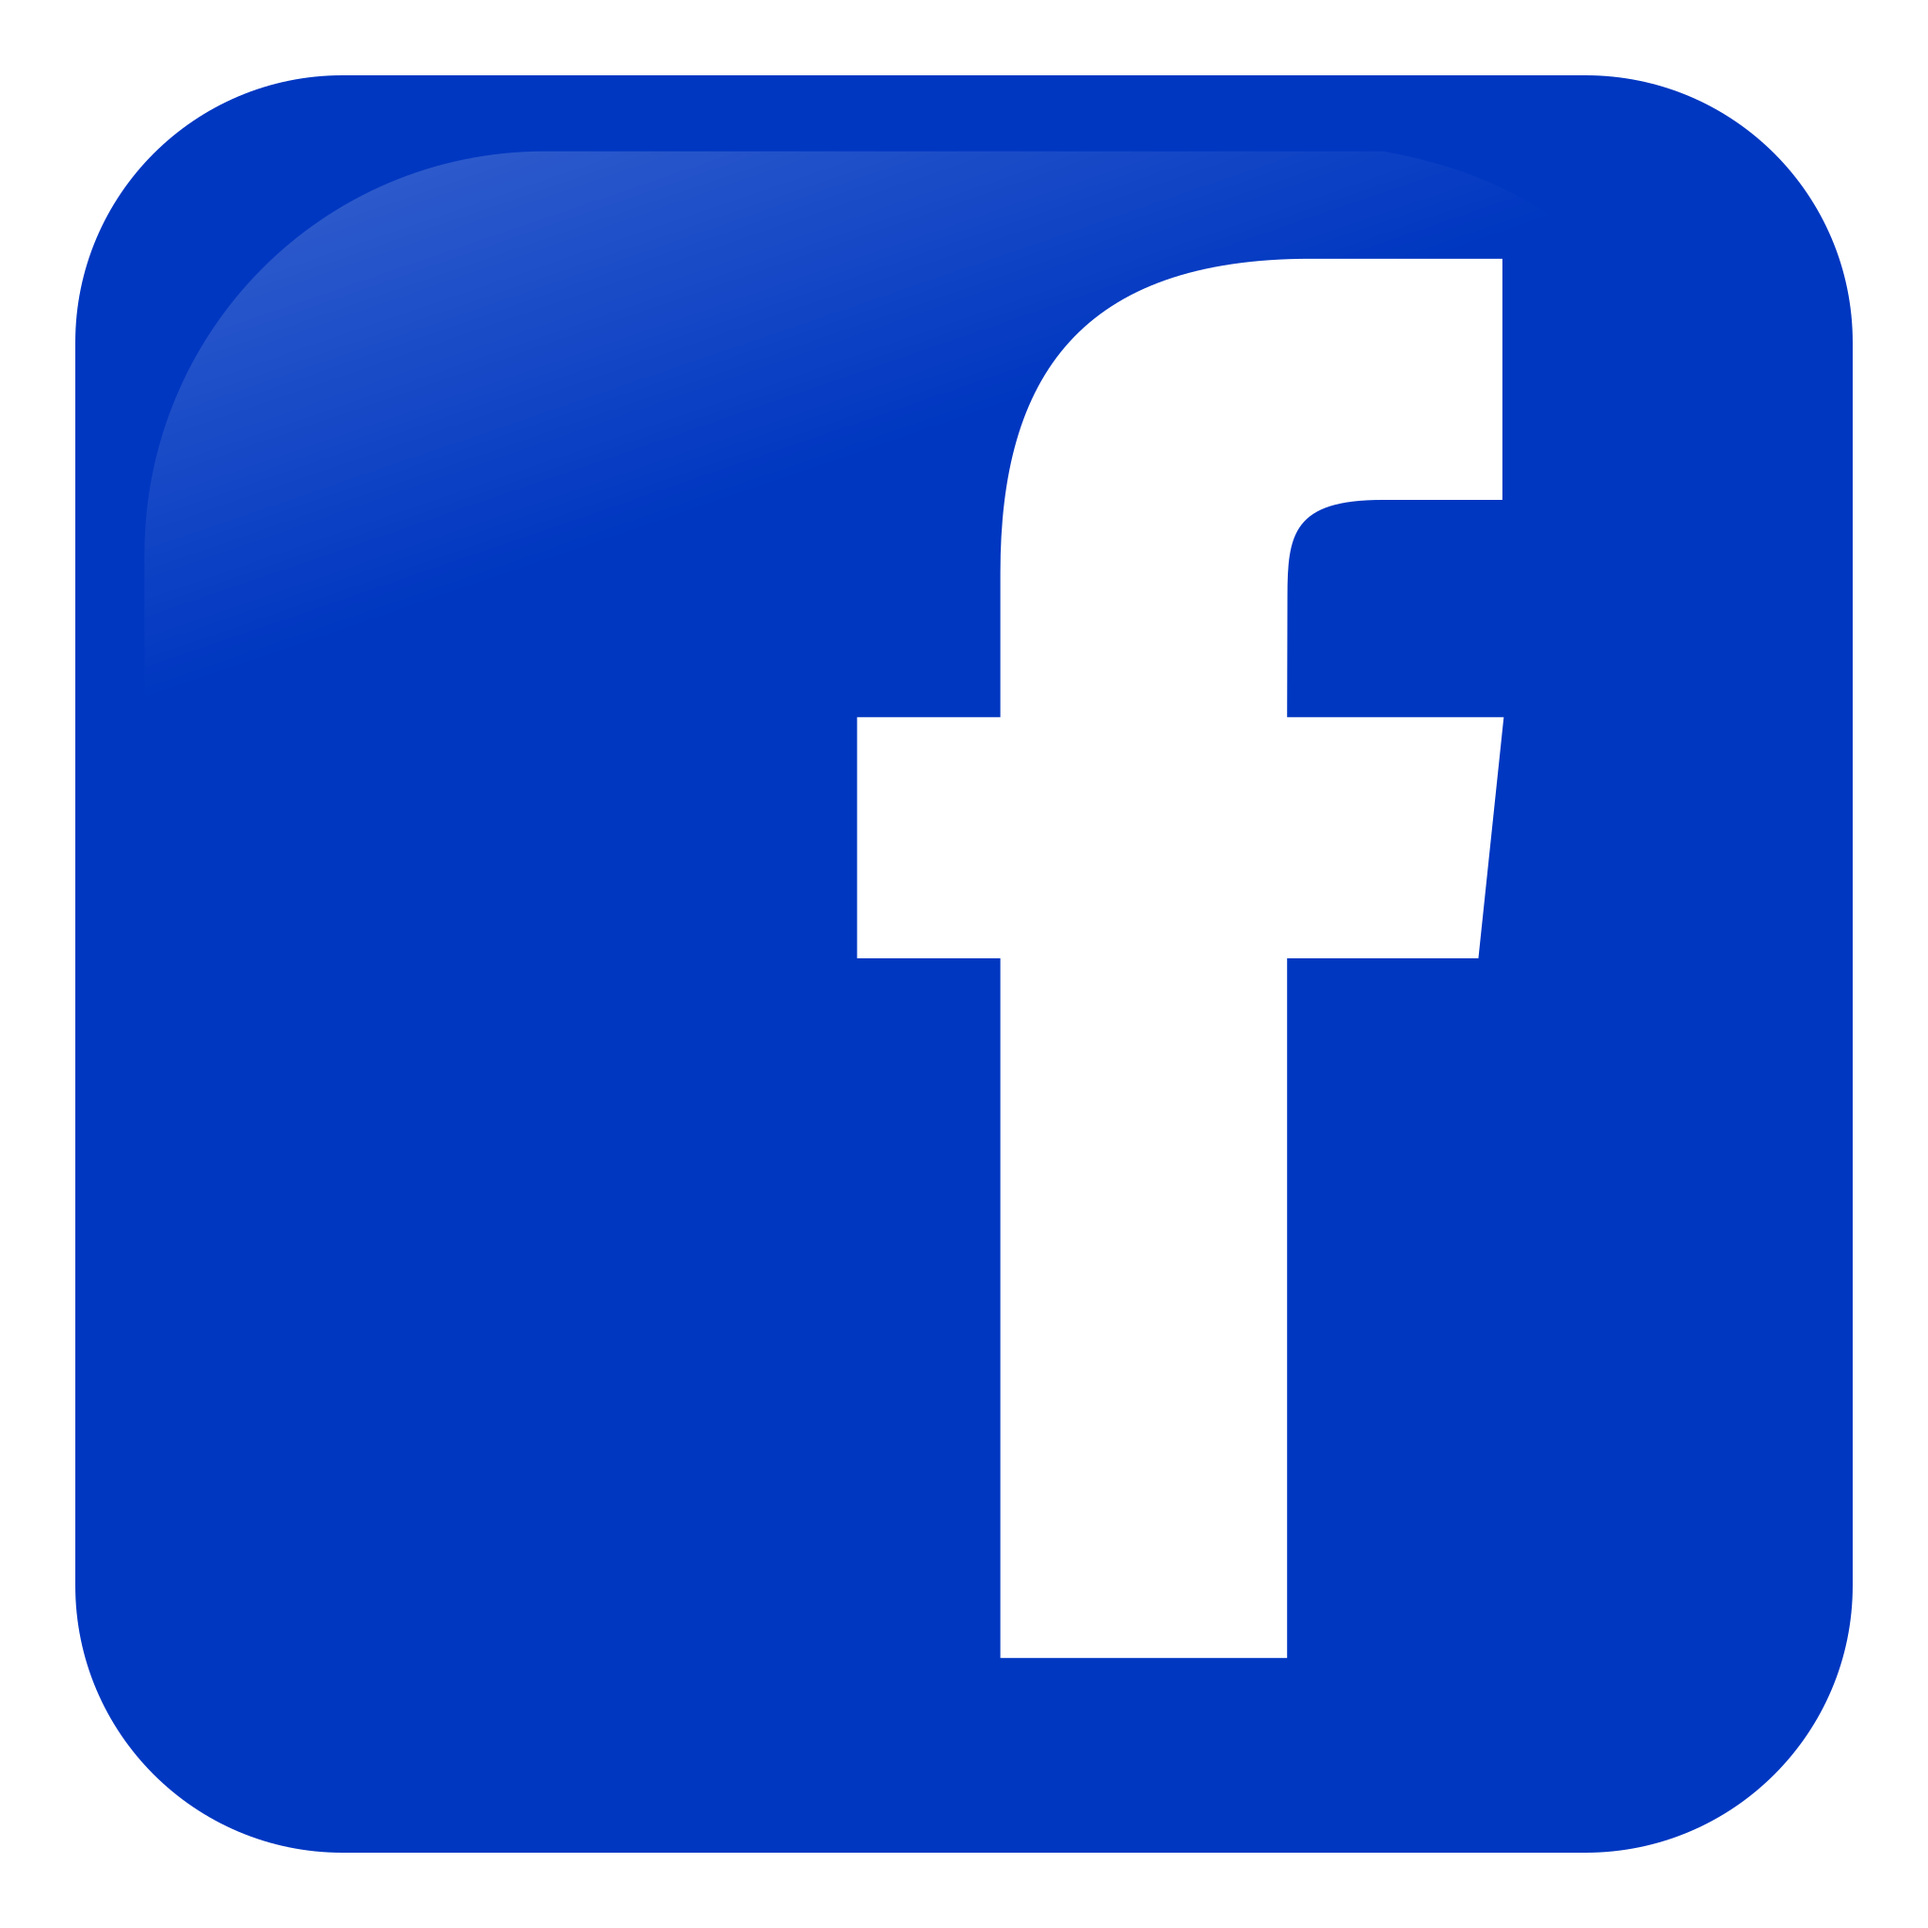
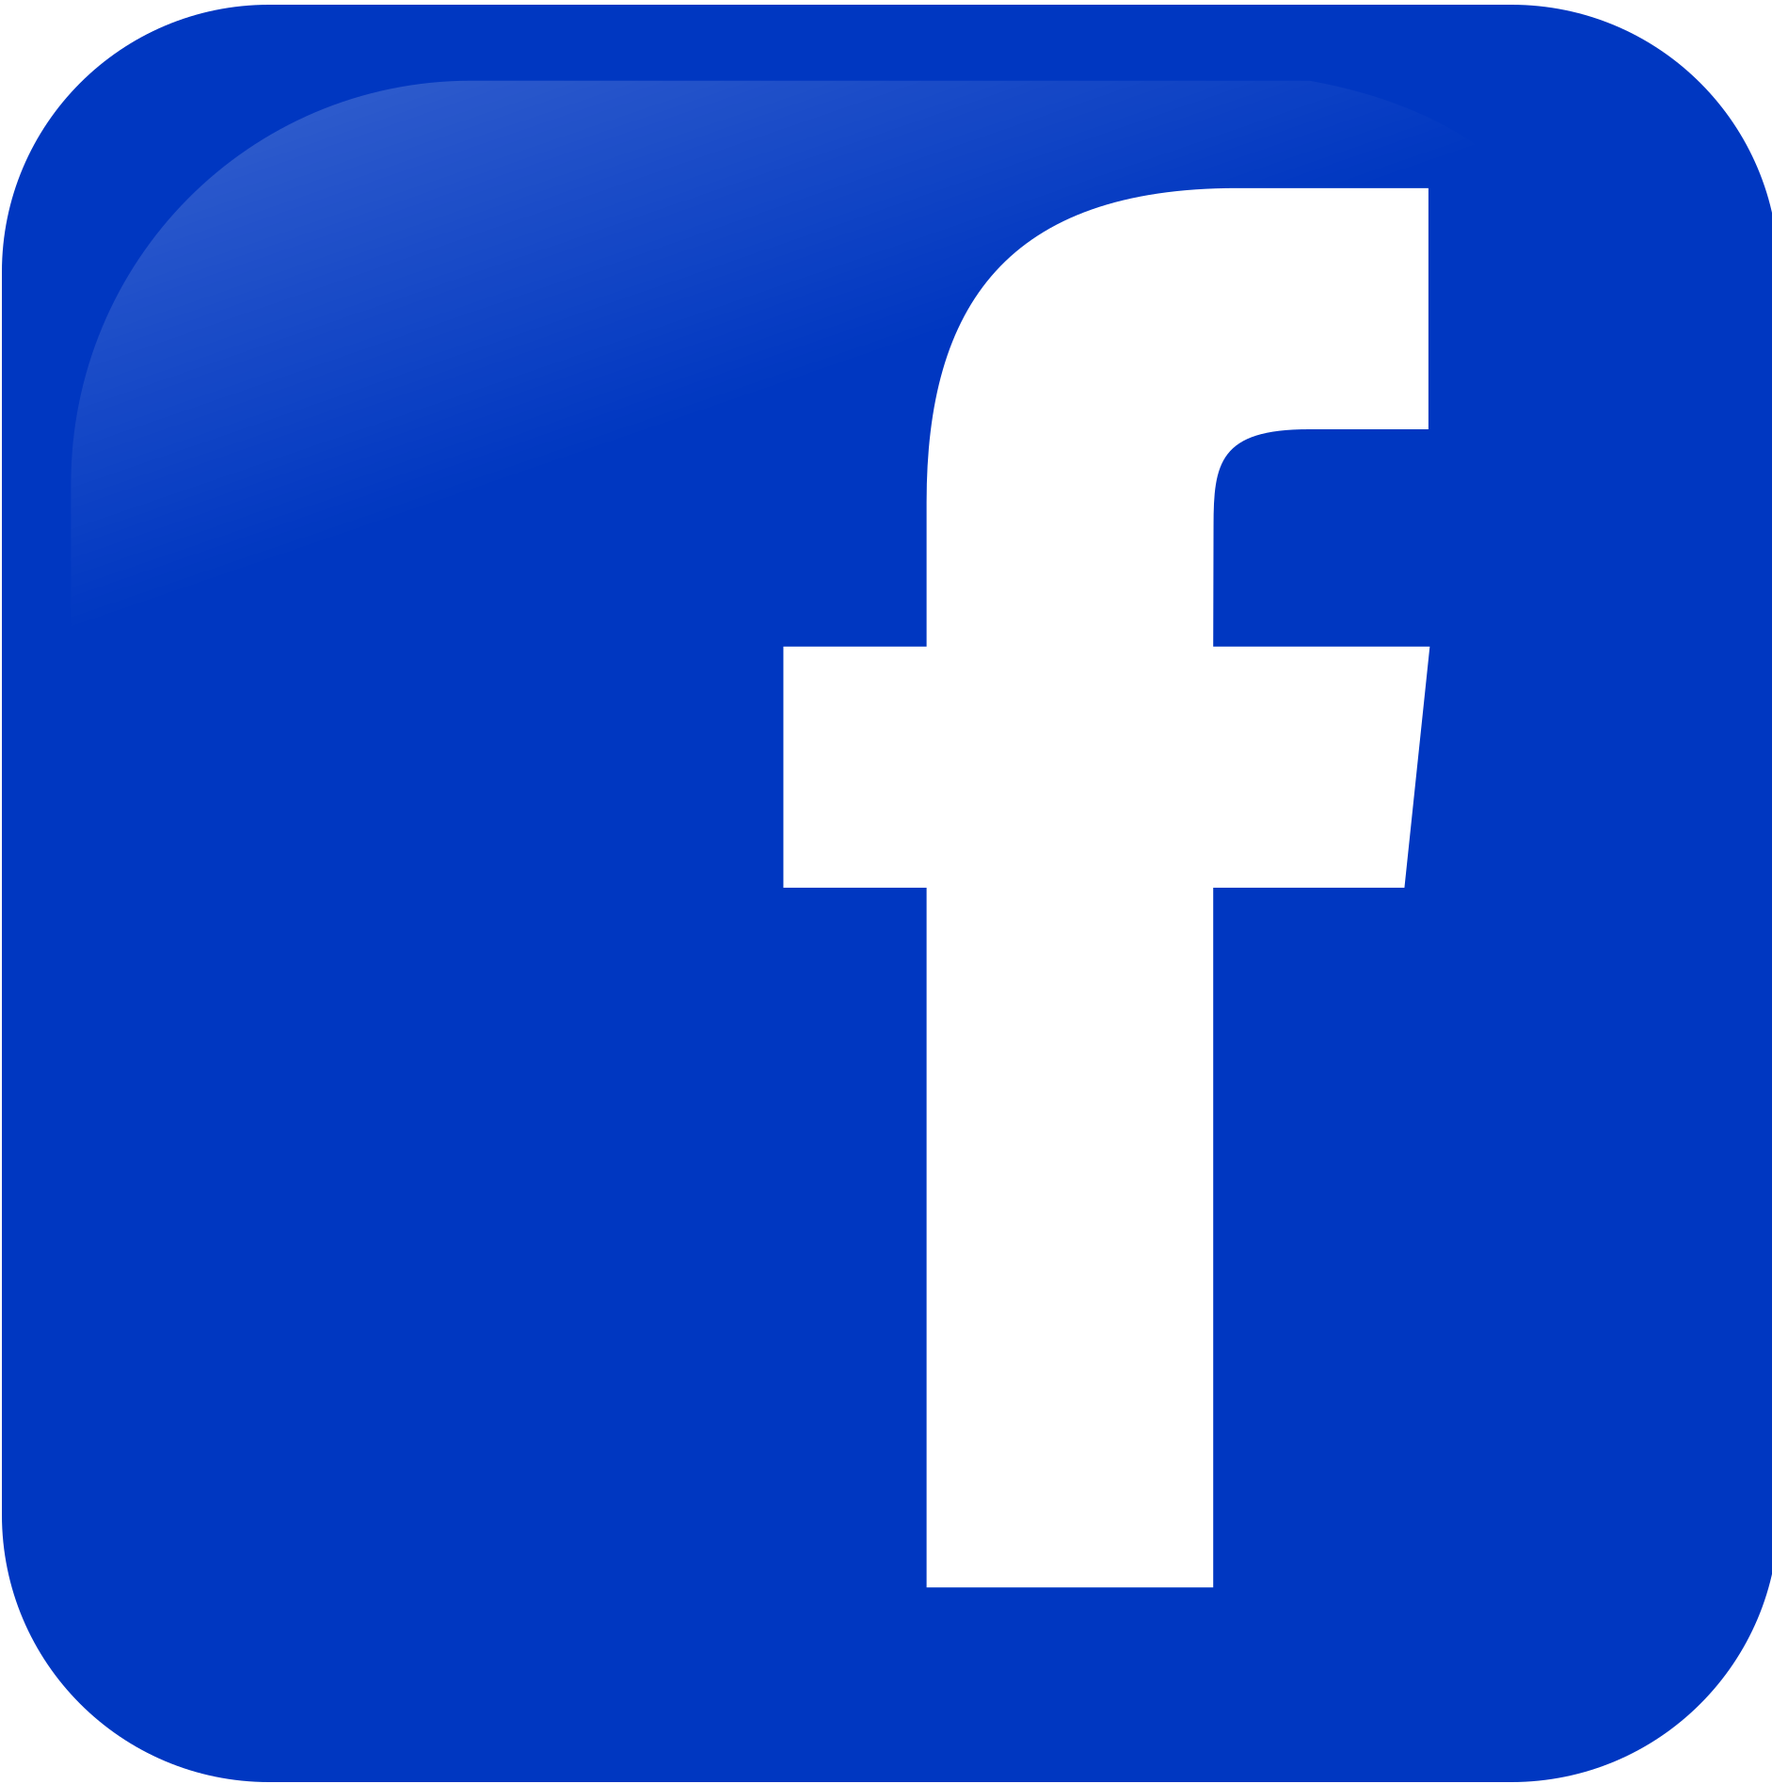
Added facebook image

diff --git a/src/pages/Home/components/Map/Map.tsx b/src/pages/Home/components/Map/Map.tsx
@@ -7,6 +7,11 @@ import { SparkEnvironment } from "./SparkEnvironment"
 import { Puck } from "./Puck"
 
 import pfp from "@/assets/pixelated_cubes_pfp.png"
+import facebook from "@/assets/socials/facebook.png"
+import github from "@/assets/socials/github.png"
+import instagram from "@/assets/socials/instagram.png"
+import leetcode from "@/assets/socials/leetcode.png"
+import linkedin from "@/assets/socials/linkedin.png"
 
 const Map : React.FC = () => {
 
@@ -143,31 +148,31 @@ const Map : React.FC = () => {
 					
 					<div className="listed socials">
 						<Puck
-							className="projects-puck"
+							// className="projects-puck"
 							depth={ 10 } 
 							corner={ 10 }
-							innerShadow={ 5 }><h2 className="topic">Facebook</h2></Puck>
+							innerShadow={ 5 }><img className="facebook-puck" src={ facebook } alt="" /></Puck>
 
 						<Puck
-							className="projects-puck"
+							// className="projects-puck"
 							depth={ 10 } 
 							corner={ 10 }
 							innerShadow={ 5 }><h2 className="topic">Instagram</h2></Puck>
 
 						<Puck
-							className="projects-puck"
+							// className="projects-puck"
 							depth={ 10 } 
 							corner={ 10 }
 							innerShadow={ 5 }><h2 className="topic">Leet Code</h2></Puck>
 							
 						<Puck
-							className="projects-puck"
+							// className="projects-puck"
 							depth={ 10 } 
 							corner={ 10 }
 							innerShadow={ 5 }><h2 className="topic">Github</h2></Puck>
 
 						<Puck
-							className="projects-puck"
+							// className="projects-puck"
 							depth={ 10 } 
 							corner={ 10 }
 							innerShadow={ 5 }><h2 className="topic">LinkedIn</h2></Puck>

diff --git a/src/pages/Home/components/Map/Puck/Puck.tsx b/src/pages/Home/components/Map/Puck/Puck.tsx
@@ -38,7 +38,7 @@ const Puck : React.FC<PuckInterface> = ({ className, children, depth, corner, in
 	return <>
 		<div className={`puck ${ className }`} style={ puckStyle }>
 			{/* <div className="face front"></div> */}
-			<div className="face back"></div>
+			{/* <div className="face back"></div> */}
 
 			<div className="side short left" style={ sideWithThreeFragments } >
 				<div className="fragment" style={ singleDisplacement } ></div>

diff --git a/src/pages/Home/components/Map/MapContent.scss b/src/pages/Home/components/Map/MapContent.scss
@@ -33,7 +33,14 @@
 
 .projects { grid-area: listed-projects; }
 .technologies { grid-area: listed-technologies; }
+
 .socials { grid-area: listed-socials; }
+.facebook-puck {
+  vertical-align: middle;
+
+  width: 100px;
+  background-color: transparent;
+}
 
 .profile-pic {
   width: 200px;

diff --git a/src/pages/Home/components/Map/Puck/Puck.scss b/src/pages/Home/components/Map/Puck/Puck.scss
@@ -74,7 +74,6 @@
   width: 100%;
   height: 100%;
   
-  background-color: rgba(245, 222, 179, 0.552);
   clip-path: polygon(
     0px var(--cornerSize, 10px),
     var(--cornerSize, 10px) var(--cornerSize, 10px),
